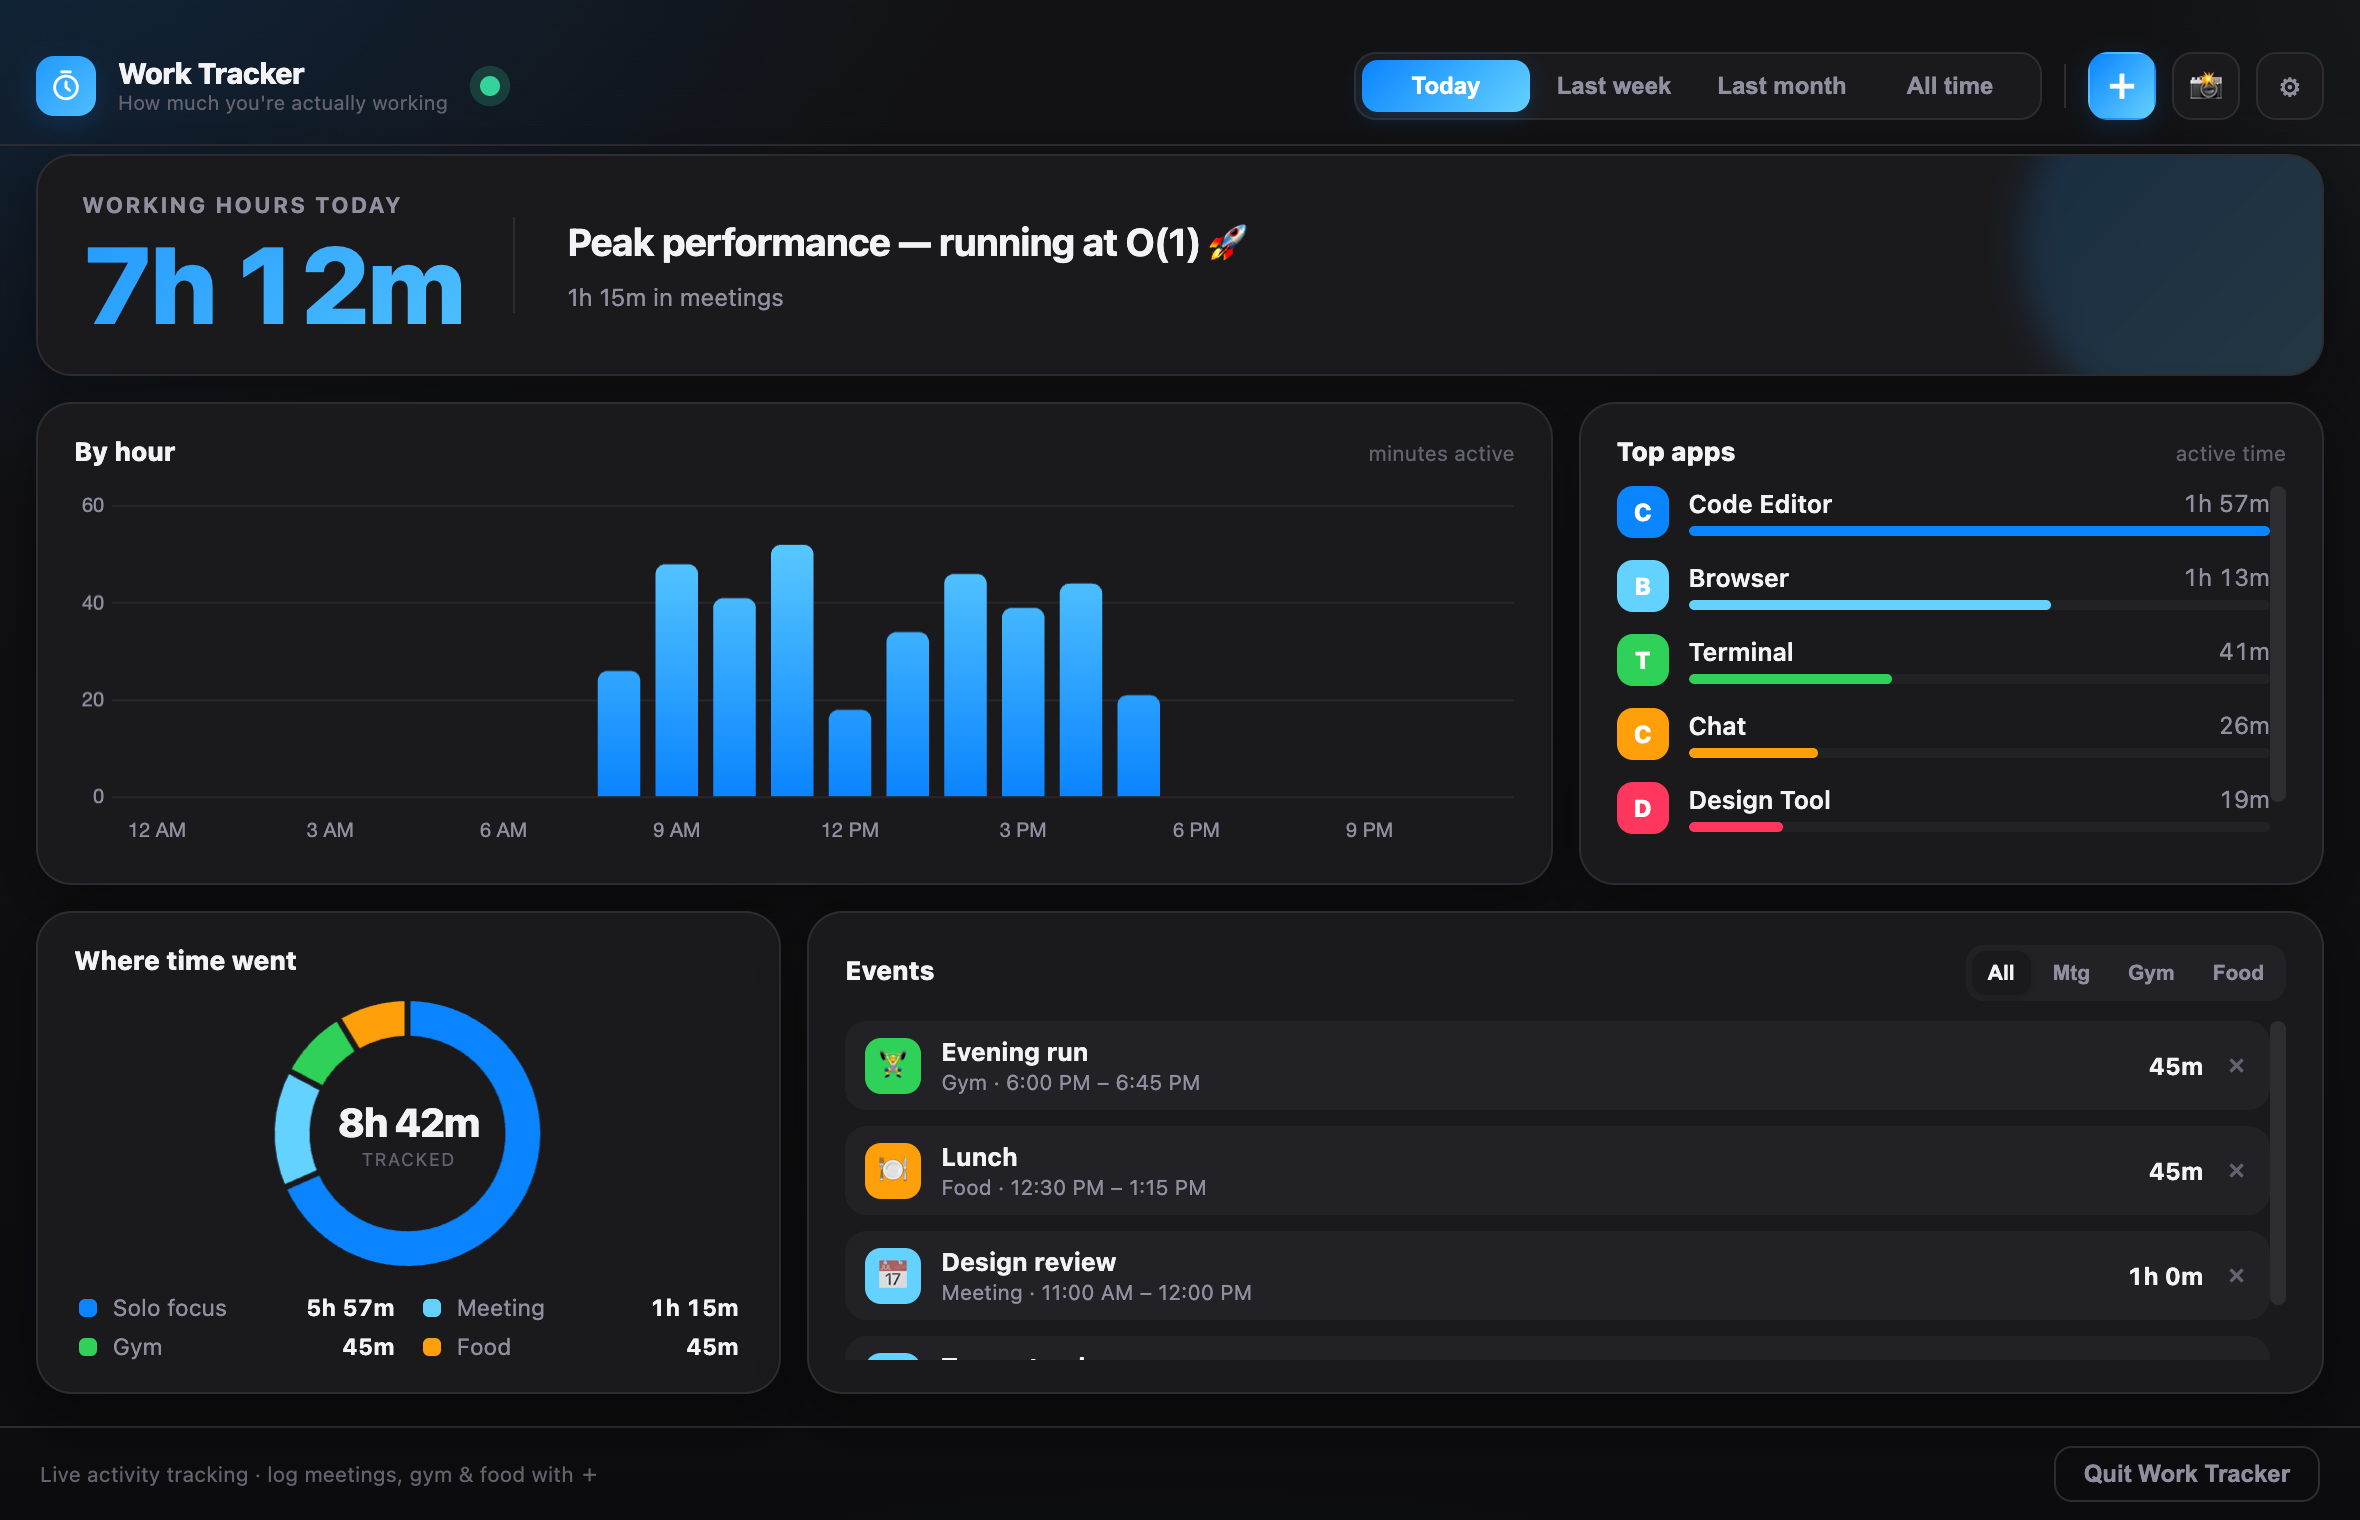
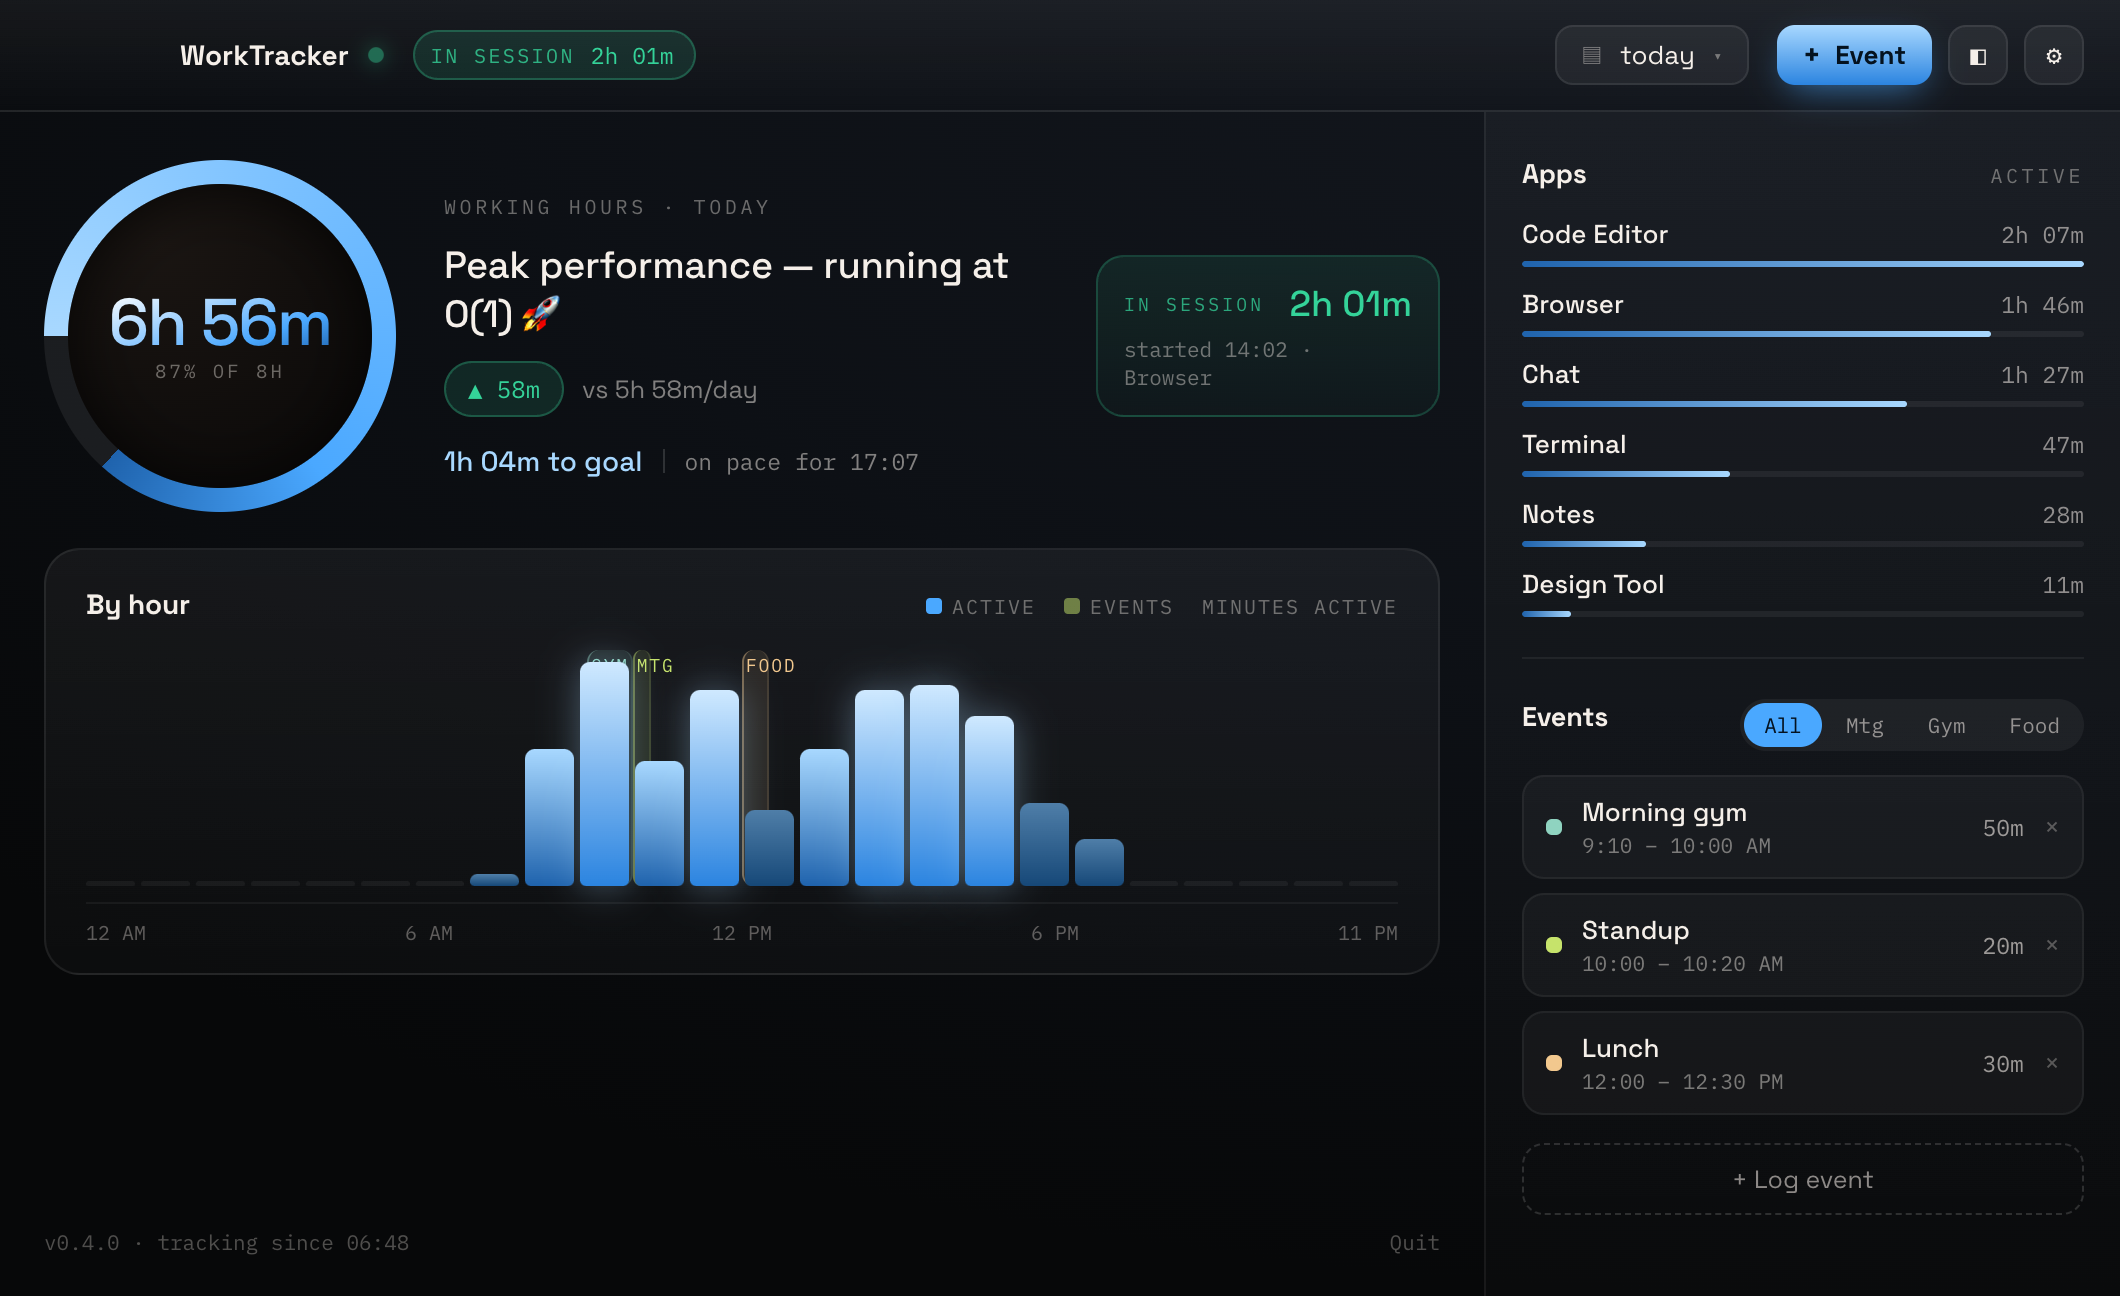
Document the 0.4.0 redesign: goal dial, pace, custom ranges, six palettes

diff --git a/README.md b/README.md
@@ -56,9 +56,10 @@ keylogging — it never sees *what* you type.
 **Counts meetings as work.** Log a meeting and it counts even though you weren't
 typing. Time spent working *during* a meeting is never double-counted.
 
-**Pause when you're not working.** Watching something on the commute? Pause for
-30 min / 1 hour / 2 hours — it auto-resumes when the timer ends, so a forgotten
-pause can't swallow your day.
+**Pause when you're not working.** Watching something on the commute? Click the
+status dot to pause for an hour, or pick 30 min / 1 hour / 2 hours from the menu
+bar. It auto-resumes when the timer ends, so a forgotten pause can't swallow
+your day.
 
 **Log life, too.** Gym and food are tracked and charted, but never counted as work.
 
@@ -66,15 +67,25 @@ pause can't swallow your day.
 
 ## The dashboard
 
-- **Today · Last week · Last month · All time**
-- Working-hours headline with a status read on how the day is going
-- Activity by hour (or by day), where your time went, and your top apps
-- 📸 **Day snapshot** — export a shareable summary card, including how the day
+- **Daily goal dial** — pick a target (2–14h) and see how far along the day is
+  at a glance
+- **Today · Last 7 days · Last 30 days · All time**, plus any custom date range
+- **Pace** — how much is left today, and what time you'll reach the goal at this rate
+- **Live session** — how long this stretch of work has been going, and in which app
+- Activity **by hour, by day or by month**, with anything you logged drawn as
+  bands behind today's hours
+- Your top apps and your logged events, in the rail
+- 📸 **Day snapshot** — export a shareable card, including how the day
   compares to your all-time average
+- Drag the window narrow and it becomes a compact glance card
+
+From the menu bar: today's total, a sparkline, and `⌥⌘P` to pause / `⌥⌘N` to log
+an event.
 
 ### Themes
 
-Five palettes that retint the entire app — including exported snapshots.
+Six palettes that retint the entire app — including exported snapshots. Amber is
+the default.
 
 | Espresso ☕ | Pride 🏳🌈 |
 |---|---|
